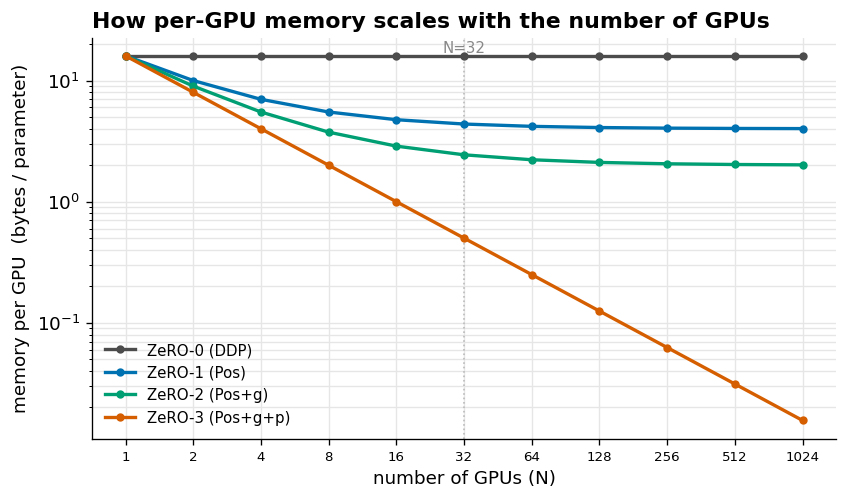
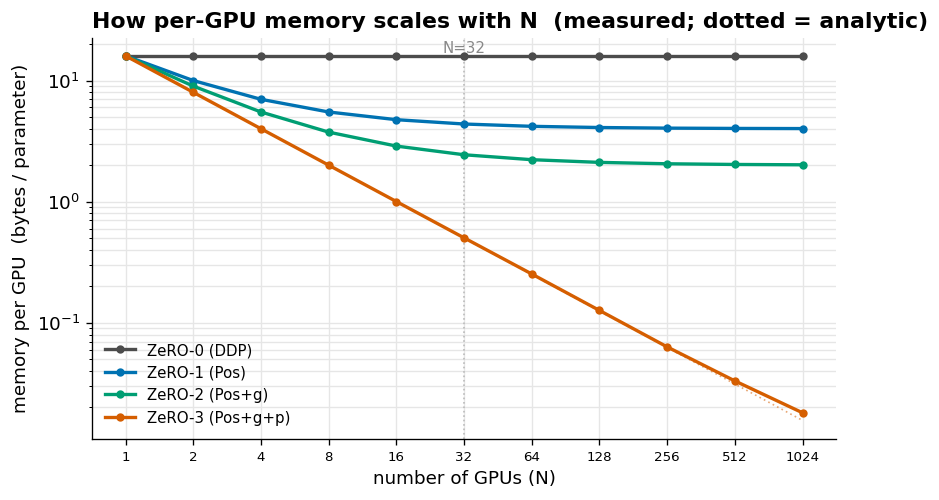
Audit fixes: measured scaling + FLOP count; precise ZeRO-3 wording

diff --git a/make_figures.py b/make_figures.py
@@ -72,20 +72,29 @@ ax.set_ylim(0, 3.4)
 plt.tight_layout(); plt.savefig("figures/comm.png", bbox_inches="tight"); plt.close()
 
 # ---------------------------------------------------------------- Figure 3: scaling
+# MEASURED: run the simulation at each N and read each GPU's resident bytes/param.
 fig, ax = plt.subplots(figsize=(7.2, 4.3))
 Ns = np.array([1, 2, 4, 8, 16, 32, 64, 128, 256, 512, 1024])
+labels = ["ZeRO-0 (DDP)", "ZeRO-1 (Pos)", "ZeRO-2 (Pos+g)", "ZeRO-3 (Pos+g+p)"]
+measured = {s: [] for s in range(4)}
+for n in Ns:
+    for s in range(4):
+        _, _, gps = train(s, model, X, Y, int(n), 2)       # 2 steps: memory is step-independent
+        measured[s].append(gps[0].resident_bytes / P)
 formulas = {0: lambda n: 16 + 0 * n, 1: lambda n: 4 + 12 / n,
             2: lambda n: 2 + 14 / n, 3: lambda n: 16 / n}
-labels = ["ZeRO-0 (DDP)", "ZeRO-1 (Pos)", "ZeRO-2 (Pos+g)", "ZeRO-3 (Pos+g+p)"]
-for s in range(4):
-    ax.plot(Ns, formulas[s](Ns), "-o", color=COLORS[s], lw=2, ms=4, label=labels[s], zorder=3)
+for s in range(4):                                           # faint analytic reference
+    ax.plot(Ns, formulas[s](Ns), color=COLORS[s], lw=1, ls=(0, (1, 2)), alpha=0.55, zorder=2)
+for s in range(4):                                           # measured points
+    ax.plot(Ns, measured[s], "-o", color=COLORS[s], lw=2, ms=4, label=labels[s], zorder=3)
 ax.axvline(32, color="#bbb", ls=":", lw=1)
 ax.text(32, 17, "N=32", color="#888", fontsize=9, ha="center")
 ax.set_xscale("log", base=2); ax.set_yscale("log")
 ax.set_xticks(Ns); ax.set_xticklabels([str(n) for n in Ns], fontsize=8)
 ax.set_xlabel("number of GPUs (N)")
 ax.set_ylabel("memory per GPU  (bytes / parameter)")
-ax.set_title("How per-GPU memory scales with the number of GPUs", fontweight="bold", loc="left")
+ax.set_title("How per-GPU memory scales with N  (measured; dotted = analytic)",
+             fontweight="bold", loc="left")
 ax.legend(frameon=False, fontsize=9)
 ax.grid(True, which="both")
 plt.tight_layout(); plt.savefig("figures/scaling.png", bbox_inches="tight"); plt.close()

diff --git a/README.md b/README.md
@@ -155,9 +155,10 @@ I wrote this so the concepts are demonstrated by construction, not asserted:
    (`all_reduce`, `reduce_scatter`, `all_gather`) so they actually move data between
    the GPU-owned arrays, and charged each with the ring cost model. That reproduces
    the paper's `2Ψ / 2Ψ / 2Ψ / 3Ψ` table: ZeRO-1/2 are free wins; ZeRO-3 *executes*
-   an extra parameter all-gather in the forward **and** again in the backward (the
-   weights are freed in between and re-materialized, exactly as the real algorithm
-   does) to make them shardable.
+   a real parameter all-gather for the forward **and** a second one for the backward,
+   and the backward pass genuinely consumes the re-gathered weights. (In production the
+   forward copy is freed before the backward re-gather; this flat demo runs the two
+   gathers back-to-back and charges the peak as a single full-model buffer.)
 
 4. **Compute is untouched.** Each virtual GPU runs exactly one forward+backward on
    its micro-batch in every stage — same FLOPs. ZeRO gives model-parallel-sized
